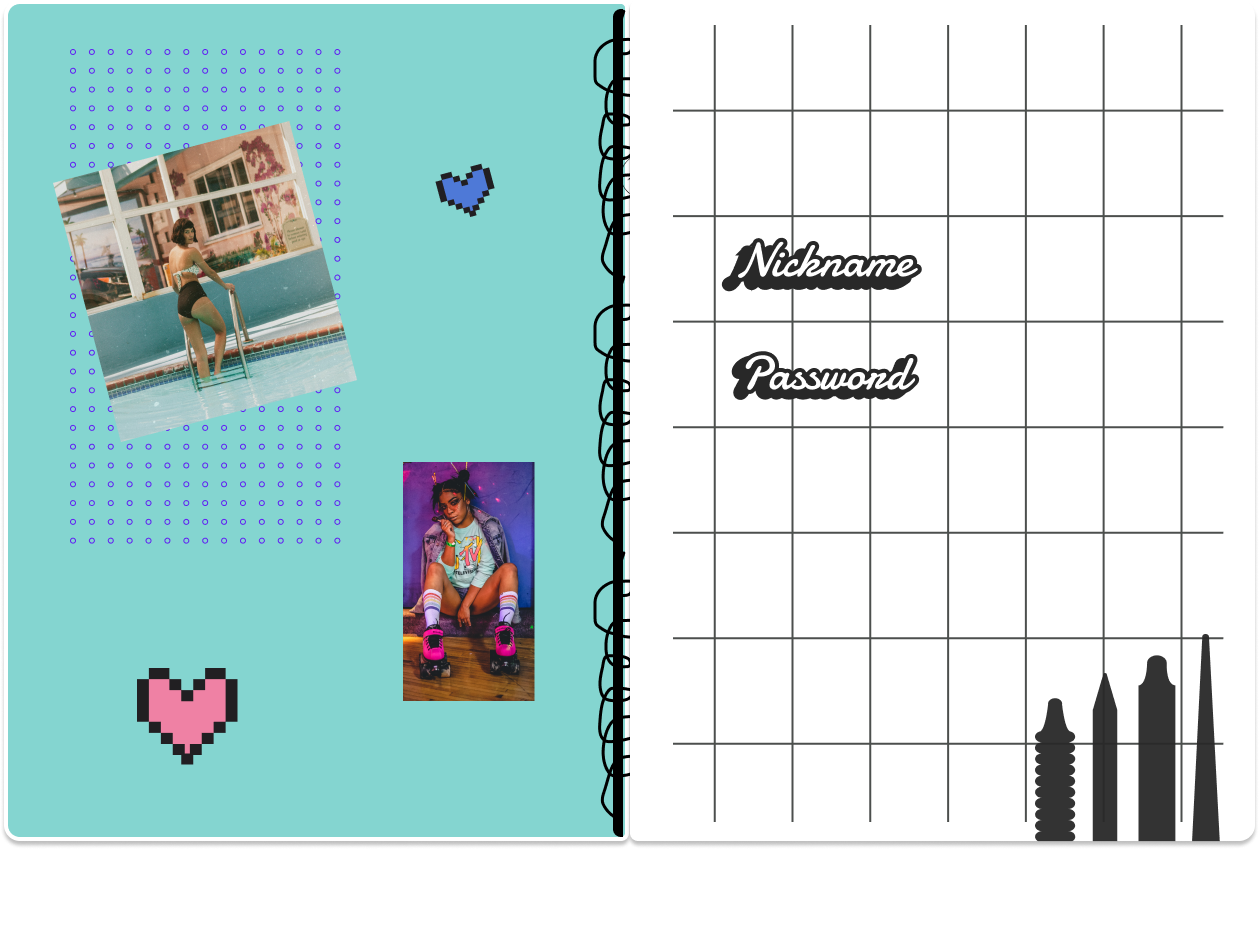
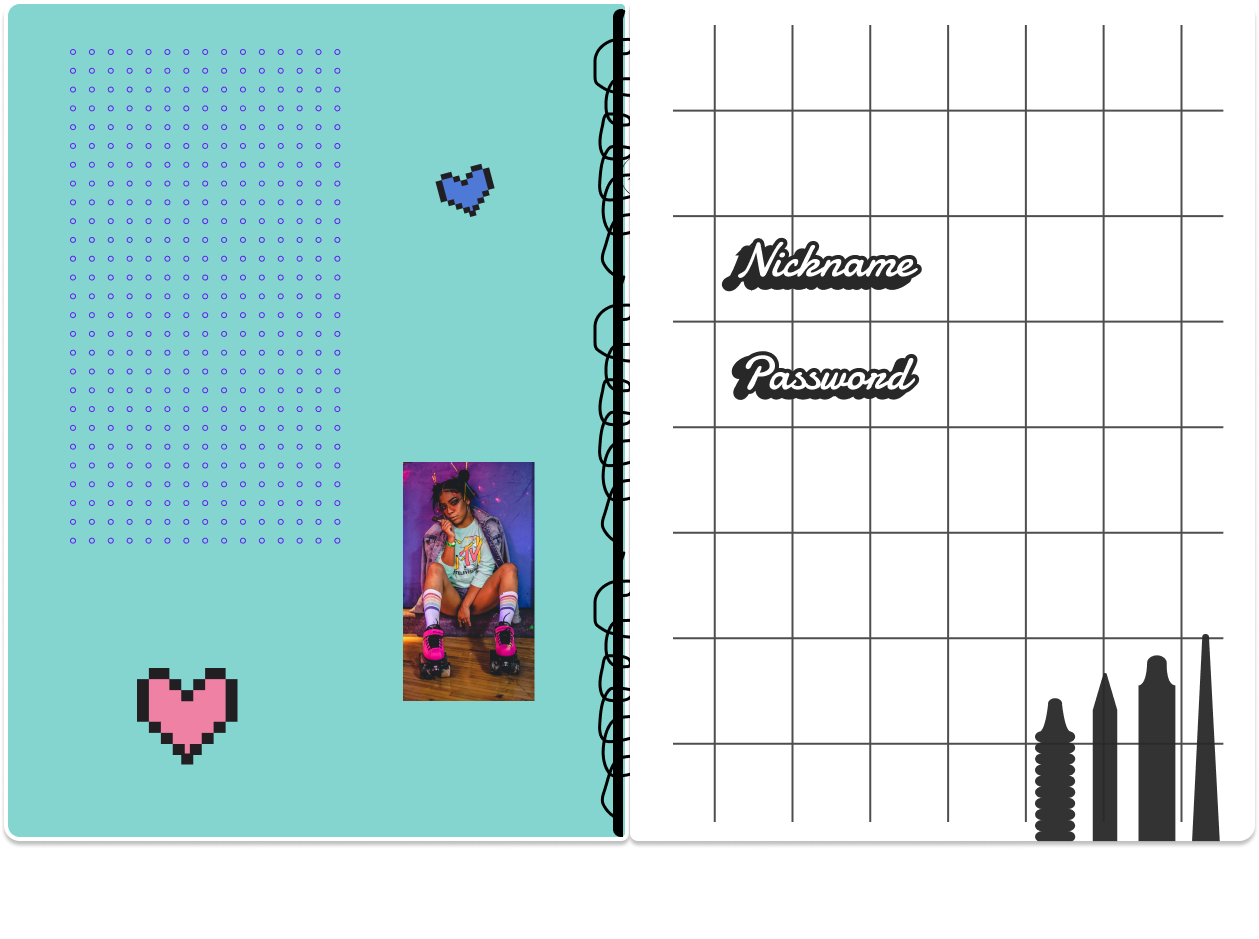
feat: login, signup animation

Changed region(s): [[0.031, 0.1235, 0.2788, 0.4633]]

diff --git a/src/pages/Signup.tsx b/src/pages/Signup.tsx
@@ -1,6 +1,6 @@
 import React, {useState} from 'react'
 import axios from 'axios';
-import styled from 'styled-components';
+import styled, {keyframes} from 'styled-components';
 import {useNavigate} from 'react-router';
 
 
@@ -29,17 +29,23 @@ function Signup() {
           <InputNick onChange={(e: React.ChangeEvent<HTMLInputElement>)=>{setMyNickName(e.target.value)}}/>
           <InputPW onChange={(e: React.ChangeEvent<HTMLInputElement>)=>{setMyPW(e.target.value)}}/>
           <GenSelectContainer>
-            <div className={myGen === 1? "selectedGen" : "unSelectedGen"} onClick={()=>setMyGen(1)}>7080</div>
-            <div className={myGen === 0? "selectedGen" : "unSelectedGen"} onClick={()=>setMyGen(0)}>9000</div>
+            <div className={myGen === 1? "selectedGen" : "unSelectedGen"} onClick={()=>setMyGen(1)}>mani<br/>70-80</div>
+            <div className={myGen === 0? "selectedGen" : "unSelectedGen"} onClick={()=>setMyGen(0)}>mini<br/>90-00</div>
           </GenSelectContainer>
           <SignupBtn src='img/signup_assets/signup_btn.png' onClick={signupBtnClickHandler}/>
         </SignupNote>
         <BigFlower src='img/signup_assets/Group 73.png'/>
         <SmallFlower src='img/signup_assets/Group 12415.png'/>
+        {/*
         <Circles src='img/signup_assets/Group 72.png'/>
-        <Star src='img/signup_assets/Star 5.png'/>
+        */}
+        <Star src='img/signup_assets/Star 6.png'/>
         <SmallHeart src='img/signup_assets/Heart.png'/>
         <BigHeart src='img/signup_assets/bigHeart.png'/>
+        {/*
+        <Star3 src='img/signup_assets/Star 3.png'/>
+      */}
+        <FullStar src='img/signup_assets/full_star.png'/>
       </SignupBody>
       
     </>
@@ -47,7 +53,33 @@ function Signup() {
 }
 
 export default Signup
+const large_img = keyframes`
+  	50% {
+    	transform: scale(1.5);
+    }
+    100% {
+      transform: scale(1);
+    }
+`;
+const large_img2 = keyframes`
+  	50% {
+    	transform: scale(1.2);
+    }
+    100% {
+      transform: scale(1);
+    }
+`;
 
+
+const rotate_img = keyframes`
+	100% {
+    	transform: rotate(360deg);
+    }
+`;
+const backNforth = keyframes`
+    from{transform: translate(0,0);}
+    to{transform:translate(100px,0);}
+`;
 const SignupBody : any = styled.div`
   background : #F6BEC8;
   width: 1920px;
@@ -117,6 +149,7 @@ const SmallFlower : any = styled.img`
 position: absolute;
   margin-top: 654px;
   margin-left: 157px;
+  animation: ${rotate_img} 10s linear infinite;
 `;
 const Circles : any = styled.img`
 position: absolute;
@@ -125,14 +158,30 @@ position: absolute;
 const Star : any = styled.img`
   position: absolute;
   margin-left: 1688px;
+  animation: ${rotate_img} 15s linear infinite;
 `;
 const SmallHeart : any = styled.img`
   position: absolute;
   margin-top: 933px;
   margin-left: 1676px;
+  animation: ${large_img} 2s linear infinite;
+  transform-origin: 50% 50%;
 `;
 const BigHeart : any = styled.img`
   position: absolute;
   margin-top: 553px;
   margin-left: 1784px;
+`;
+const Star3 : any = styled.img`
+  position: absolute;
+  margin-left: 84px;
+  margin-top: 847px;
+  animation: ${large_img2} 2s linear infinite;
+  transform-origin: 50% 50%;
+`
+const FullStar : any = styled.img`
+  position: absolute;
+  margin-top: 808.39px;
+  animation: ${backNforth} 3s linear infinite;
+  animation-direction: alternate;
 `;

diff --git a/src/pages/Login.tsx b/src/pages/Login.tsx
@@ -1,7 +1,7 @@
 import React, {useState} from 'react';
 import {Link} from 'react-router-dom';
 import axios from 'axios';
-import styled from 'styled-components';
+import styled, {keyframes} from 'styled-components';
 import {useNavigate} from 'react-router';
 import {connect, useDispatch} from 'react-redux';
 
@@ -42,6 +42,7 @@ function Login() {
           <Link to='/signup'>
             <SigninBtn src='img/login_assets/signup_btn.png'/>
           </Link>
+          <Picture1 src='img/login_assets/picture1.png'/>
         </LoginNote>
         <BigFlower src='img/signup_assets/Group 73.png'/>
         <SmallFlower src='img/signup_assets/Group 12415.png'/>
@@ -118,10 +119,27 @@ const BigFlower : any = styled.img`
   position: absolute;
   margin-top: 190px;
 `;
+
+const large_img = keyframes`
+  	50% {
+    	transform: scale(1.5);
+    }
+    100% {
+      transform: scale(1);
+    }
+`;
+
+
+const rotate_img = keyframes`
+	100% {
+    	transform: rotate(360deg);
+    }
+`;
 const SmallFlower : any = styled.img`
 position: absolute;
   margin-top: 654px;
   margin-left: 157px;
+  animation: ${rotate_img} 10s linear infinite;
 `;
 const Circles : any = styled.img`
 position: absolute;
@@ -135,6 +153,8 @@ const SmallHeart : any = styled.img`
   position: absolute;
   margin-top: 933px;
   margin-left: 1676px;
+  animation: ${large_img} 2s linear infinite;
+  transform-origin: 50% 50%;
 `;
 const BigHeart : any = styled.img`
   position: absolute;
@@ -151,5 +171,12 @@ const Smile : any = styled.img`
   margin-top: 257px;
   margin-left: 1518px;
   animation: rotate_smile 5s linear infinite;
+  animation-direction: alternate;
+`;
+const Picture1 : any = styled.img`
+  position: absolute;
+  margin-top: 121px;
+  margin-left: 49px;
+  animation: rotate_picture1 4s linear infinite;
   animation-direction: alternate;
 `;

diff --git a/src/App.css b/src/App.css
@@ -45,12 +45,12 @@
 
   width: 91px;
   height: 44px;
-  line-height: 34px;
+  line-height: 20px;
   margin-left: 7.5px;
   margin-top: 8px;
   font-family: 'Damion', cursive;
   color: white;
-  font-size: 36px;
+  font-size: 24px;
 
   text-align: center;
 }
@@ -62,11 +62,11 @@
 
   width: 91px;
   height: 44px;
-  line-height: 34px;
+  line-height: 20px;
   margin-left: 7.5px;
   margin-top: 8px;
   font-family: 'Damion', cursive;
-  font-size: 36px;
+  font-size: 24px;
 
   text-align: center;
 }
@@ -74,4 +74,9 @@
 @keyframes rotate_smile{
     from{transform: rotate(45deg);}
     to{transform: rotate(-45deg);}
+}
+
+@keyframes rotate_picture1{
+  from{transform: rotate(15deg);}
+  to{transform: rotate(-15deg);}
 }
